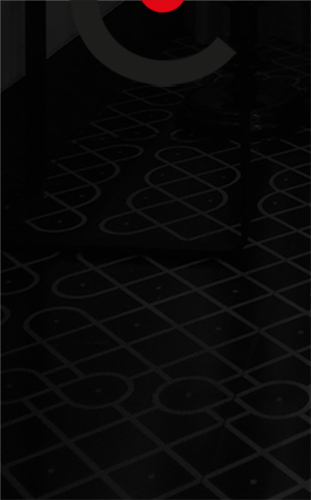
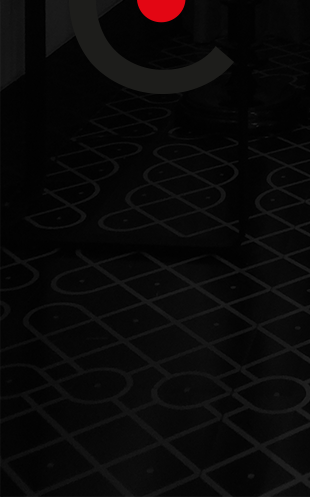
room page changes

diff --git a/frontassets/css/style.css b/frontassets/css/style.css
@@ -1,5 +1,5 @@
-body {
-    font-family: 'Josefin Sans', 'Questrial', 'Maven Pro' sans-serif;
+body,h1,h2,h3,h4,h5,h6 {
+    font-family: 'Josefin Sans', 'Questrial', 'Maven Pro' sans-serif!important;
 }
 
 a {
@@ -437,10 +437,61 @@ img.right {
     height: 400px;
     overflow: hidden;
     display: block;
-    margin: 0px 0px 0px 30px;
+    text-align: center;
+/*    margin: 0px 0px 0px 30px;*/
+    background: url(../image/rooms-page.jpg);
+    background-size: 100% 100%;
 }
 
+.col-md-3.padding0,.col-md-9.padding0{
+    padding: 0;
+}
+.room-side h1{
+    color: white;
+ padding-top: 80px;
+  font-weight: lighter;
+}
+
+.room-side p{
+      color: white;
+  padding: 0 45px;
+    text-align: justify;
+}
 .room-side img {
     width: 100%;
     height: 400px;
+}
+
+.room2{
+    display: none;
+}
+.enter-btn{
+    background: transparent;
+  color: white;
+  border: none;
+    position: relative;
+  border-bottom: 1px solid white;
+}
+.enter-btn:focus{
+    outline: none;
+}
+.all-btns{
+    height: 10px;
+    width: 23px;
+    top:23px;
+    border-radius: 90px 90px 0 0;
+    -moz-border-radius: 90px 90px 0 0;
+    -webkit-border-radius: 0px 0px 110px 110px;
+    background: #e30613;
+    position: absolute;
+    left: 50%;
+    -webkit-transform: translatex(-50%);
+    -moz-transform: translatex(-50%);
+    -ms-transform: translatex(-50%);
+    -o-transform: translatex(-50%);
+    transform: translatex(-50%);
+    -webkit-transition: all 0.5s ease-out;
+    -moz-transition: all 0.5s ease-out;
+    -o-transition: all 0.5s ease-out;
+    transition: all 0.5s ease-out;
 }

diff --git a/frontassets/css/mobile.css b/frontassets/css/mobile.css
@@ -119,9 +119,18 @@
         overflow-y: auto;
         min-height: 220px;
     }
+     
+   
 }
-
-@media screen and (max-width: 766px) {
+@media screen and (max-width: 991px){
+    .room-side{
+        height:auto;
+    }
+    .wrap-btn{
+        padding-bottom: 35px;
+    }
+}
+@media screen and (max-width: 480px) {
     .logo img {
         width: 200px;
     }
@@ -136,4 +145,11 @@
     .col-sm-6.amenities-block {
         min-height: initial;
     }
+    .room-side{
+        height:auto;
+    }
+    .room-side h1{
+        padding-top: 65px;
+    }
+    
 }

diff --git a/application/views/frontend/room.php b/application/views/frontend/room.php
@@ -1,64 +1,69 @@
 <div class="container">
-    
-<div class="row">
 
-   <div class="overview-cont text-center">
-    <h2>More than just a hotel
+    <div class="row">
+
+        <div class="overview-cont text-center">
+            <h2>More than just a hotel
 
 </h2>
-    <p>
-        Our architectural detail is but one element that defines Design Hotel Chennai as one of the best luxury boutique hotels in India – and certainly its most uncommon. In line with our commitment to offer our guests a diversity of quality choice, our 26 well-appointed guest rooms are elegantly designed according to the bold artistic theme of our four culturally distinct corridors.
-    </p>
-</div>
-</div>
-<div class="row">
-   <div class="col-md-3">
-       <div class="room-side">
-           <img src="<?php echo base_url('frontassets/image/room1.png'); ?>" class="img-responsive">
-       </div>
-   </div>
-   <div class="col-md-9">
-    <div id="myCarousel" class="carousel slide" data-ride="carousel">
-  <!-- Indicators -->
-  <ol class="carousel-indicators">
-    <li data-target="#myCarousel" data-slide-to="0" class="active"></li>
-    <li data-target="#myCarousel" data-slide-to="1"></li>
-    <li data-target="#myCarousel" data-slide-to="2"></li>
-    <li data-target="#myCarousel" data-slide-to="3"></li>
-  </ol>
+            <p>
+                Our architectural detail is but one element that defines Design Hotel Chennai as one of the best luxury boutique hotels in India – and certainly its most uncommon. In line with our commitment to offer our guests a diversity of quality choice, our 26 well-appointed guest rooms are elegantly designed according to the bold artistic theme of our four culturally distinct corridors.
+            </p>
+        </div>
+    </div>
+    <div class="row">
+        <div class="col-md-3 padding0">
+            <div class="room-side">
+                <h1>ati</h1>
+                <p>The tasteful, monochrome Ati Corridor has manifestations of the elegant and rich Kolam Rice art, or 'Rangolee'adorning it. Black inlaid on gray, alternating with white stripes, the composition is dense and intricate, quint.</p>
+                <div class="wrap-btn">
+                    <button class="button enter-btn">ENTER
+                        <div class="all-btns"></div>
+                    </button>
+                </div>
+            </div>
+        </div>
+        <div class="col-md-9 padding0">
+            <div id="myCarousel" class="carousel slide" data-ride="carousel">
+                <!-- Indicators -->
+                <ol class="carousel-indicators">
+                    <li data-target="#myCarousel" data-slide-to="0" class="active"></li>
+                    <li data-target="#myCarousel" data-slide-to="1"></li>
+                    <li data-target="#myCarousel" data-slide-to="2"></li>
+                    <li data-target="#myCarousel" data-slide-to="3"></li>
+                </ol>
 
-  <!-- Wrapper for slides -->
-  <div class="carousel-inner" role="listbox">
-<!--
+                <!-- Wrapper for slides -->
+                <div class="carousel-inner" role="listbox">
+                    <!--
     <div class="item ">
       <img src="<?php echo base_url('frontassets/image/slider/slide1.jpg'); ?>" alt="Chania">
     </div>
 -->
 
-    <div class="item active">
-      <img src="<?php echo base_url('frontassets/image/slider/slide2.jpg'); ?>" alt="Chania">
-    </div>
+                    <div class="item active">
+                        <img src="<?php echo base_url('frontassets/image/slider/slide2.jpg'); ?>" alt="Chania">
+                    </div>
 
-    <div class="item">
-      <img src="<?php echo base_url('frontassets/image/slider/slide3.jpg'); ?>" alt="Flower">
-    </div>
+                    <div class="item">
+                        <img src="<?php echo base_url('frontassets/image/slider/slide3.jpg'); ?>" alt="Flower">
+                    </div>
 
-    <div class="item">
-      <img src="<?php echo base_url('frontassets/image/slider/slide4.jpg'); ?>" alt="Flower">
-    </div>
-  </div>
+                    <div class="item">
+                        <img src="<?php echo base_url('frontassets/image/slider/slide4.jpg'); ?>" alt="Flower">
+                    </div>
+                </div>
 
-  <!-- Left and right controls -->
-  <a class=" carousel-controls" href="#myCarousel" role="button" data-slide="prev">
+                <!-- Left and right controls -->
+                <a class=" carousel-controls" href="#myCarousel" role="button" data-slide="prev">
   <img class="left" src="<?php echo base_url('frontassets/image/left.jpg'); ?>" alt="Flower">
 
   </a>
-  <a class=" carousel-controls" href="#myCarousel" role="button" data-slide="next">
+                <a class=" carousel-controls" href="#myCarousel" role="button" data-slide="next">
    <img class="right" src="<?php echo base_url('frontassets/image/right.jpg'); ?>" alt="Flower">
 <!--    <span class="sr-only">Next</span>-->
   </a>
+            </div>
+        </div>
+    </div>
 </div>
-</div>
-</div>
-</div>
-   
